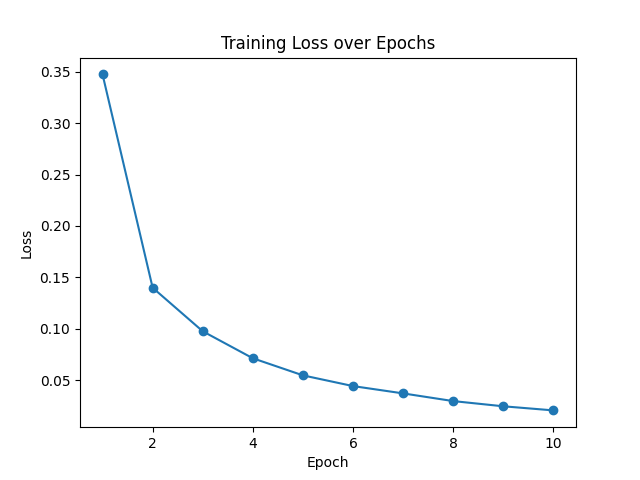
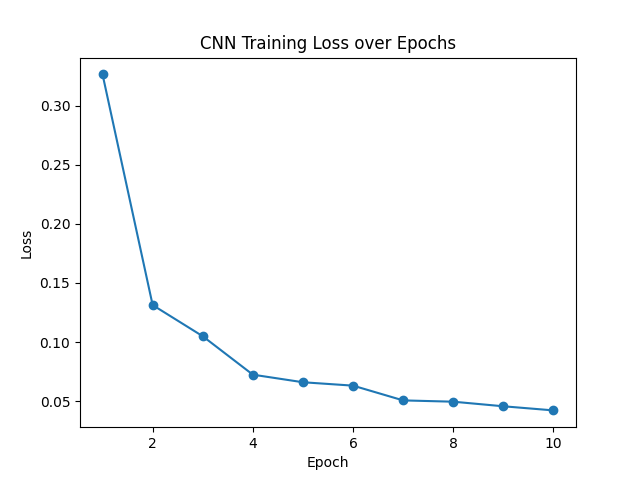
feat: replace MLP with augmented CNN training pipeline

diff --git a/03_train.py b/03_train.py
@@ -4,34 +4,61 @@ from torch.utils.data import DataLoader
 from torchvision import datasets, transforms
 import matplotlib.pyplot as plt
 
-# --Data-----
-transform = transforms.ToTensor()
-train_data = datasets.MNIST(root='./data', train = True, download = True, transform = transform)
-test_data = datasets.MNIST(root='./data', train = False, download = True, transform = transform)
+# ── Data + Augmentation ───────────────────────────
+train_transform = transforms.Compose([
+    transforms.RandomRotation(15),
+    transforms.RandomAffine(degrees=0, translate=(0.1, 0.1), scale=(0.8, 1.2)),
+    transforms.GaussianBlur(3, sigma=(0.1, 1.0)),
+    transforms.ToTensor(),
+    transforms.Normalize((0.1307,), (0.3081,))
+])
 
-train_loader = DataLoader(train_data, batch_size = 64, shuffle = True)
-test_loader = DataLoader(test_data, batch_size=64, shuffle=False)
+test_transform = transforms.Compose([
+    transforms.ToTensor(),
+    transforms.Normalize((0.1307,), (0.3081,))
+])
 
-# --Model-----
-class DigitNet(nn.Module):
+train_data = datasets.MNIST(root='./data', train=True,  download=True, transform=train_transform)
+test_data  = datasets.MNIST(root='./data', train=False, download=True, transform=test_transform)
+
+train_loader = DataLoader(train_data, batch_size=64, shuffle=True)
+test_loader  = DataLoader(test_data,  batch_size=64, shuffle=False)
+
+# ── CNN Model ─────────────────────────────────────
+class DigitCNN(nn.Module):
     def __init__(self):
         super().__init__()
-        self.net = nn.Sequential(
-            nn.Flatten(),
-            nn.Linear(784, 128),
+        self.conv = nn.Sequential(
+            nn.Conv2d(1, 32, kernel_size=3, padding=1),  # 28x28 → 28x28, 32 filters
             nn.ReLU(),
-            nn.Linear(128, 64),
-            nn.ReLU(),
-            nn.Linear(64, 10)
-        )
-    def forward(self, x):
-        return self.net(x)
-    
-model = DigitNet()
-criterion = nn.CrossEntropyLoss() # it will measure how wrong the model is
-optimizer = torch.optim.Adam(model.parameters(), lr = 0.001) # it will adjust weights
+            nn.MaxPool2d(2),                              # 28x28 → 14x14
 
-# --Training-----
+            nn.Conv2d(32, 64, kernel_size=3, padding=1), # 14x14 → 14x14, 64 filters
+            nn.ReLU(),
+            nn.MaxPool2d(2),                              # 14x14 → 7x7
+
+            nn.Conv2d(64, 128, kernel_size=3, padding=1),# 7x7 → 7x7, 128 filters
+            nn.ReLU(),
+        )
+        self.fc = nn.Sequential(
+            nn.Flatten(),
+            nn.Linear(128 * 7 * 7, 256),
+            nn.ReLU(),
+            nn.Dropout(0.5),                             # prevent overfitting
+            nn.Linear(256, 10)
+        )
+
+    def forward(self, x):
+        return self.fc(self.conv(x))
+
+model     = DigitCNN()
+criterion = nn.CrossEntropyLoss()
+optimizer = torch.optim.Adam(model.parameters(), lr=0.001)
+scheduler = torch.optim.lr_scheduler.StepLR(optimizer, step_size=3, gamma=0.5)
+
+print(f"Model parameters: {sum(p.numel() for p in model.parameters()):,}")
+
+# ── Training ──────────────────────────────────────
 epochs = 10
 train_losses = []
 
@@ -40,41 +67,41 @@ for epoch in range(epochs):
     running_loss = 0
 
     for images, labels in train_loader:
-        optimizer.zero_grad() # Reset gradients
-        output = model(images) # forward pass 
-        loss = criterion(output, labels) # claculate loss
-        loss.backward() # backprop
-        optimizer.step() #update weights
+        optimizer.zero_grad()
+        output = model(images)
+        loss = criterion(output, labels)
+        loss.backward()
+        optimizer.step()
         running_loss += loss.item()
 
+    scheduler.step()
     avg_loss = running_loss / len(train_loader)
     train_losses.append(avg_loss)
-    print(f"Epoch {epoch+1}/{epoch} | Loss: {avg_loss:.4f}")
+    print(f"Epoch {epoch+1}/{epochs}  |  Loss: {avg_loss:.4f}")
 
-# --Test Accuracy-----
+# ── Test Accuracy ─────────────────────────────────
 model.eval()
 correct = 0
-total = 0
+total   = 0
 
 with torch.no_grad():
     for images, labels in test_loader:
-        output = model(images)
+        output    = model(images)
         predicted = output.argmax(dim=1)
-        correct += (predicted == labels).sum().item()
-        total += labels.size(0)
+        correct  += (predicted == labels).sum().item()
+        total    += labels.size(0)
 
 accuracy = 100 * correct / total
 print(f"\nTest Accuracy: {accuracy:.2f}%")
 
-# --Save Model----
+# ── Save ──────────────────────────────────────────
 torch.save(model.state_dict(), 'model/digit_model.pth')
-print("Model saved to model/digit_model.pth")
+print("Model saved → model/digit_model.pth")
 
-# --Plot Loss Curve-----
+# ── Loss curve ────────────────────────────────────
 plt.plot(range(1, epochs+1), train_losses, marker='o')
-plt.title('Training Loss over Epochs')
+plt.title('CNN Training Loss over Epochs')
 plt.xlabel('Epoch')
 plt.ylabel('Loss')
 plt.savefig('training_loss.png')
 plt.show()
-print("Loss curve saved.")